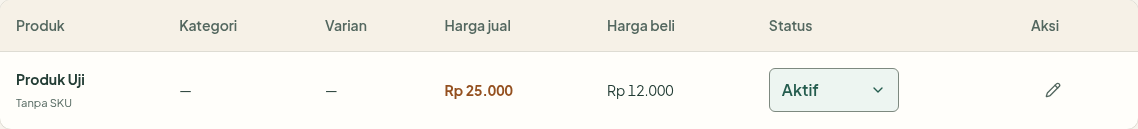
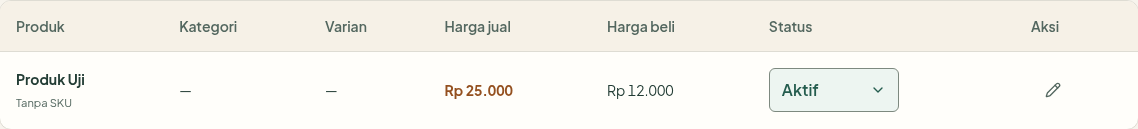
Remove repeated metrics from operational pages

diff --git a/src/components/mode-workspace.tsx b/src/components/mode-workspace.tsx
@@ -12,7 +12,7 @@ import { ProductsTable,BatchesTable } from "@/components/po-management-tables";
 import { ProductRemovalDialog } from "@/components/product-removal-dialog";
 import { ProductExcelImportDialog } from "@/components/product-excel-import";
 import { ExcelImportDialog } from "@/components/excel-import";
-import { formatCurrency, orderLabel, orderRevenue, outstanding } from "@/lib/finance";
+import { orderLabel, outstanding } from "@/lib/finance";
 import type { AppData, Batch, Order, Product } from "@/lib/types";
 
 type Props = {
@@ -31,13 +31,12 @@ type Props = {
   onImportProducts: (products: Product[]) => boolean | Promise<boolean>;
   onProductStatus: (product: Product) => boolean | Promise<boolean>;
   onImport: (orders: Order[], customers: AppData["customers"]) => boolean | Promise<boolean>;
-  summaryMonth?: string;
   importAllowed: boolean;
   productLimit?: number;
   onUpgrade: () => void;
 };
 
-export function ModeWorkspace({ tab, type, data, onNewBatch, onEditBatch, onEditOrder, onStatus, onBatchStatus, onSaveProduct, onImportProducts, onRefund, onProductStatus, onImport, summaryMonth, importAllowed, productLimit, onUpgrade }: Props) {
+export function ModeWorkspace({ tab, type, data, onNewBatch, onEditBatch, onEditOrder, onStatus, onBatchStatus, onSaveProduct, onImportProducts, onRefund, onProductStatus, onImport, importAllowed, productLimit, onUpgrade }: Props) {
   const po = type === "po";
   const [search, setSearch] = useState("");
   const [status, setStatus] = useState("all");
@@ -52,8 +51,6 @@ export function ModeWorkspace({ tab, type, data, onNewBatch, onEditBatch, onEdit
   const batches = data.batches.filter((b) => b.type === type);
   const batchIds = new Set(batches.map((b) => b.id));
   const orders = data.orders.filter((o) => batchIds.has(o.batchId));
-  const activeOrders = orders.filter((o) => o.status !== "cancelled");
-  const summaryOrders = summaryMonth ? activeOrders.filter((order) => order.date.startsWith(`${summaryMonth}-`)) : activeOrders;
   const productQuotaReached = productLimit !== undefined && data.products.length >= productLimit;
   function newProduct() { if (productQuotaReached) onUpgrade(); else setEditingProduct("new"); }
   const filteredOrders = orders.filter((o) => {
@@ -63,7 +60,6 @@ export function ModeWorkspace({ tab, type, data, onNewBatch, onEditBatch, onEdit
   const products = data.products.filter((p) => `${p.name} ${p.variant} ${p.sku} ${p.category ?? ""}`.toLowerCase().includes(search.toLowerCase()) && (categoryFilter === "all" || p.category === categoryFilter) && (productStatus === "all" || p.active === (productStatus === "active")));
 
   return <div className={`mode-workspace ${po ? "mode-po" : "mode-jastip"}`}>
-    <div className="mode-mini-stats"><div><span>{po ? "Produk aktif" : "Perjalanan aktif"}</span><strong>{po ? data.products.filter((p) => p.active).length : batches.filter((b) => b.status === "open").length}</strong></div><div><span>Pesanan berjalan</span><strong>{activeOrders.filter((o) => o.status !== "done").length}</strong></div><div><span>{summaryMonth ? "Penjualan bulan ini" : "Penjualan tercatat"}</span><strong>{formatCurrency(summaryOrders.reduce((sum, o) => sum + orderRevenue(o), 0))}</strong></div><div><span>{summaryMonth ? "Tagihan bulan ini" : "Sisa tagihan"}</span><strong>{formatCurrency(summaryOrders.reduce((sum, o) => sum + outstanding(o), 0))}</strong></div></div>
     <div>
       {tab === "products" && <>
         <section className="catalog-controls" aria-label="Pencarian dan filter katalog"><div className="catalog-toolbar"><div><h2>Master produk PO</h2><p>Harga dan varian siap pakai untuk setiap pesanan.{!importAllowed && " Import template Excel tersedia di Pro."}</p></div><div className="catalog-actions"><Button className="btn btn-secondary" onClick={()=>importAllowed ? setProductImportOpen(true) : onUpgrade()}><Upload size={16}/>Import produk Excel{!importAllowed && <span aria-hidden="true" className="status-tag">Pro</span>}</Button><Button className="btn btn-primary" onClick={newProduct}><Plus size={16} />Produk baru</Button></div></div>

diff --git a/src/app/globals.css b/src/app/globals.css
@@ -363,12 +363,6 @@ svg { flex-shrink: 0; }
 .mode-intro p { font-size: 14px; color: var(--muted); line-height: 1.8; }
 .mode-intro .eyebrow { font-size: 11px; color: var(--primary); }
 .mode-po .mode-intro .eyebrow { color: var(--warning); }
-.mode-mini-stats { display: grid; grid-template-columns: repeat(4,minmax(0,1fr)); gap: 20px; padding: 30px 4px; }
-.mode-mini-stats>div { border-right: 1px solid var(--border); padding: 0 20px; min-width: 0; }
-.mode-mini-stats>div:first-child { padding-left: 0; }
-.mode-mini-stats>div:last-child { border: 0; }
-.mode-mini-stats span { display: block; font-size: 14px; color: var(--muted); }
-.mode-mini-stats strong { display: block; font-size: 24px; font-weight: 700; margin-top: 8px; letter-spacing: -.4px; overflow-wrap: anywhere; }
 .mode-tabs { display: flex; gap: 28px; border-bottom: 1px solid var(--border); margin-bottom: 28px; flex-wrap: wrap; }
 .mode-tabs button { display: flex; align-items: center; gap: 9px; min-height: 48px; border: none; border-bottom: 3px solid transparent; background: none; padding: 8px 3px 12px; font-size: 14px; color: var(--muted); }
 .mode-tabs button.active { color: var(--primary); border-bottom-color: var(--primary); font-weight: 700; }
@@ -499,9 +493,6 @@ details.form-section[open]>summary::after { transform: rotate(225deg); margin-bo
   .batch-preview-grid { grid-template-columns: repeat(2,minmax(0,1fr)); }
   .new-batch-card { grid-column: 1/-1; }
   .batches-grid,.product-grid,.customers-grid { grid-template-columns: repeat(2,minmax(0,1fr)); }
-  .mode-mini-stats { gap: 16px; }
-  .mode-mini-stats>div { padding-inline: 12px; }
-  .mode-mini-stats strong { font-size: 22px; }
   .toast { left: calc(50% + 102px); }
 }
 @media(max-width:960px) {
@@ -581,10 +572,6 @@ details.form-section[open]>summary::after { transform: rotate(225deg); margin-bo
   .welcome-modes strong { font-size: 16px; }
   .mode-intro { padding: 20px; gap: 16px; align-items: flex-start; }
   .mode-intro h2 { font-size: 20px; line-height: 1.5; margin-top: 5px; }
-  .mode-mini-stats { grid-template-columns: repeat(2,minmax(0,1fr)); row-gap: 24px; padding: 24px 0; }
-  .mode-mini-stats>div { padding-inline: 16px; }
-  .mode-mini-stats>div:nth-child(odd) { padding-left: 0; }
-  .mode-mini-stats>div:nth-child(even) { border: 0; }
   .mode-tabs { gap: 20px; }
   .catalog-toolbar { gap: 14px; align-items: flex-start; flex-wrap: wrap; }
   .catalog-toolbar .btn { flex-shrink: 0; }

diff --git a/src/components/tippo-app.tsx b/src/components/tippo-app.tsx
@@ -342,7 +342,7 @@ export function TippoApp({ cloud }: { cloud?: AccountWorkspace }) {
                 onHpp={(batch) => { setSelectedHpp(batch.id); go("hpp"); }}
                 onSaveProduct={saveProduct} onImportProducts={importProducts}
                 onProductStatus={(product) => persist({ ...data, products: data.products.map((p) => p.id === product.id ? { ...p, active: !p.active } : p) }, product.active ? "Produk diarsipkan. Histori pesanan tetap tersedia." : "Produk aktif kembali")}
-                onImport={importOrders} importAllowed={isPro} summaryMonth={isPro ? undefined : currentMonth} productLimit={!isPro ? 5 : undefined} onUpgrade={() => go("subscription")}
+                onImport={importOrders} importAllowed={isPro} productLimit={!isPro ? 5 : undefined} onUpgrade={() => go("subscription")}
               />}
 
               {page === "hpp" && <><div className="hpp-notice"><div className="notice-icon"><Wallet size={21} /></div><div><strong>Lengkapi harga beli barang.</strong><p>HPP dihitung dari harga beli per barang dan jumlahnya. Harga beli yang belum diisi ditandai agar estimasi margin dapat diperiksa.</p></div></div>{hppBatch ? <><div className="hpp-selector"><span className="field-label">Pilih batch</span><Select className="input" aria-label="Pilih batch untuk HPP" value={hppBatch.id} onValueChange={(value) => setSelectedHpp(value)}>{modeBatches.map((b) => <SelectOption value={b.id} key={b.id}>{b.name}</SelectOption>)}</Select></div><HppPanel key={hppBatch.id + JSON.stringify(data.orders.filter((o) => o.batchId === hppBatch.id).map((o) => [o.id, o.items.map((item) => [item.id, item.unitCost])])) + hppBatch.directCosts} batch={hppBatch} data={data} onSave={(next) => persist(next, "Biaya tersimpan. HPP dan margin sudah diperbarui.")} /></> : <Empty title="HPP dimulai dari batch" description="Buat batch dan catat pesanan agar biaya bisa dihitung." action="Buat batch" onAction={() => setBatchModal({ type: mode })} />}</>}

diff --git a/docs/PRD.md b/docs/PRD.md
@@ -364,3 +364,5 @@ Ringkasan memiliki kartu Tagihan belum lunas di bawah Aliran pembayaran. Kartu m
 Revisi ini menggantikan rancangan ringkasan gabungan sebelumnya. Pengguna memilih Jastip atau Open PO melalui switch dua tombol. Pilihan terakhir diingat pada browser; default pertama Jastip. Pergantian membuka Ringkasan usaha terpilih. Jastip memiliki menu Ringkasan, Perjalanan, Pesanan, HPP & Margin; Open PO memiliki Ringkasan, Produk, Batch PO, Pesanan, HPP & Margin. Grafik, penjualan/margin, pembayaran/refund, pesanan terbaru, tagihan belum lunas, batch aktif dan pemilih HPP hanya menggunakan transaksi dari jenis batch mode aktif. Pembuatan pesanan/batch otomatis mengikuti mode, tanpa dialog pilihan jenis lagi. Pembatasan Gratis tetap 5 pesanan per mode per bulan dan 5 produk PO; Pro satu langganan akun. Pilihan bulan sebelumnya tetap Pro saja.
 
 Pelanggan, Profil Bisnis, Pengaturan Data dan Langganan merupakan menu akun bersama. Daftar kontak pelanggan tetap satu; jumlah pesanan pelanggan mengikuti mode aktif. Cadangan data tetap memuat kedua usaha. Data lama tidak dipindahkan atau dihapus; penyimpanan HPP/pesanan tetap menyertakan workspace penuh agar transaksi usaha lain terjaga.
+
+Halaman Produk, Pesanan, Batch PO dan Perjalanan tidak menampilkan deretan metrik umum (produk/perjalanan aktif, pesanan berjalan, penjualan, tagihan). Metrik usaha tetap berada pada Ringkasan tiap mode; halaman operasional langsung menampilkan filter/data dan kontrol penambahan. Informasi kontekstual yang sudah tersedia, seperti kuota produk Gratis atau jumlah hasil pesanan, tetap dipertahankan.

diff --git a/docs/DESIGN-VALIDATION.md b/docs/DESIGN-VALIDATION.md
@@ -728,3 +728,7 @@ Screenshot akhir desktop PO terang, tablet PO gelap, Jastip desktop gelap dan po
 | R-31 | PASS: satu alasan tiap keputusan utama tercatat: switch untuk fokus, warna untuk konteks, scope untuk metrik usaha. |
 
 Tambahan Pro: pemilih bulan tetap menampilkan tahun terpilih ketika mode lain belum memiliki transaksi pada tahun itu; hasilnya Ringkasan kosong yang jelas, bukan pilihan bulan kosong.
+
+## Fokus halaman operasional
+
+Arah pengguna: deretan metrik umum tidak perlu diulang di seluruh menu. Blok mode-mini-stats, perhitungan summaryOrders, prop summaryMonth dan 13 aturan CSS dihapus; filter, tabel, kontrol, kuota serta kondisi kosong tetap. Ringkasan tiap mode tidak diubah. Agen utama meninjau ulang 50 item Delivery Gate yang telah dicatat: PASS untuk perubahan penghapusan ini, tanpa aset/warna/CTA/perhitungan transaksi baru. Bukti R-03/R-34/C-4: tampilan desktop 1440 terang dan ponsel 390 gelap tanpa overflow, Produk/Batch PO/Perjalanan/Pesanan dibuka; screenshot kedua halaman Produk ditinjau langsung. R-35: lint/production build berhasil, tiga workflow browser lulus (dua pemeriksaan sementara visual/navigasi dan satu tes pengelolaan tabel yang sudah ada). R-31/C-1/C-3/ruang kosong: halaman langsung fokus pada pencarian, data dan aksi sesuai konteks; metrik usaha di Ringkasan. Tidak dibuat tes permanen baru untuk penghapusan blok UI ini. Pemeriksaan menggunakan fixture Supabase tanpa data produksi.

diff --git a/docs/UI-UX.md b/docs/UI-UX.md
@@ -180,3 +180,5 @@ Kolom kanan Ringkasan menumpuk Aliran pembayaran dan Tagihan belum lunas. Daftar
 ## Switch Jastip dan Open PO
 
 Switch Jastip | Open PO menggantikan dua menu usaha dan kartu ajakan memilih alur. Dua tombol dengan aria-pressed berada di atas judul halaman; dapat dipilih dengan keyboard, memenuhi lebar ponsel, serta memberi aksen teal untuk Jastip/jingga hangat untuk PO. Nama usaha juga tampil pada judul Ringkasan dan label menu, sehingga konteks tidak bergantung pada warna. Sidebar langsung berisi halaman operasional sesuai usaha; tab Produk/Pesanan/Batch yang duplikatif dihapus. Form mengikuti mode, HPP hanya menawarkan batch mode tersebut. Menu bersama tetap terlihat. Tema gelap menggunakan jingga terang yang kontras, sementara warna status pesanan konsisten.
+
+Deretan metrik mini di atas halaman operasional dihapus. Produk, Pesanan, Batch PO dan Perjalanan langsung memulai area kerja dari filter/tabel atau keadaan kosong, tanpa mengulang penjualan/tagihan dari Ringkasan.
